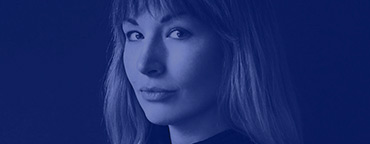
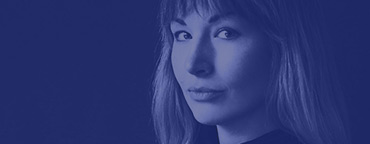
Upload bio images

diff --git a/index.html b/index.html
@@ -91,7 +91,7 @@
             <div class="container">
               <section class="">
                 <h1 class="off-center-title">Pres-<br>enters</h1>
-                <h2>Check out this<br>dope line up</h2>
+                <h2>They're all<br>amazing</h2>
                 <img class="desktop-only" src="img/section_graphics/graphic_presenters.svg" height="179" width="193" alt="Graphic Presenters">
               </section>
 
@@ -165,6 +165,55 @@
                     <div class="subtitle cushycms">Tj Usiyan Subtitle</div>
                   </div>
                 </div>
+
+                <div class="speaker-card">
+                  <div>
+                    <div class="name">Jared<br>Erondu</div>
+                    <div class="subtitle cushycms">Jared Erondu Subtitle</div>
+                  </div>
+                </div>
+
+                <div class="speaker-card">
+                  <div>
+                    <div class="name">Alexa<br>Grafera</div>
+                    <div class="subtitle cushycms">Alexa Grafera Subtitle</div>
+                  </div>
+                </div>
+
+                <div class="speaker-card">
+                  <div>
+                    <div class="name">Louie<br>Mantia</div>
+                    <div class="subtitle cushycms">Louie Mantia Subtitle</div>
+                  </div>
+                </div>
+
+                <div class="speaker-card no-image">
+                  <div>
+                    <div class="name">Jessica<br>Collier</div>
+                    <div class="subtitle cushycms">Jessica Collier Subtitle</div>
+                  </div>
+                </div>
+
+                <div class="speaker-card no-image">
+                  <div>
+                    <div class="name">Linda<br>Dong</div>
+                    <div class="subtitle cushycms">Linda Dong Subtitle</div>
+                  </div>
+                </div>
+
+                <div class="speaker-card no-image">
+                  <div>
+                    <div class="name">Lia<br>Napolitano</div>
+                    <div class="subtitle cushycms">Lia Napolitano Subtitle</div>
+                  </div>
+                </div>
+
+                <div class="speaker-card no-image">
+                  <div>
+                    <div class="name">Windy<br>Chien</div>
+                    <div class="subtitle cushycms">Windy Chien Subtitle</div>
+                  </div>
+                </div>
               </section>
             </div>
           </div>
@@ -214,7 +263,7 @@
 
               <section class="">
                 <div class="tito-container">
-                  <tito-widget event="opening-night-llc/layers-2016" ssl-check-disabled></tito-widget>
+                  <tito-widget event="opening-night-llc/layers-2016"></tito-widget>
                 </div>
                 <img class="desktop-only" src="img/section_graphics/graphic_signup.svg" height="120" width="130" alt="Sign Up Graphic">
 
@@ -313,7 +362,7 @@
                 <div class="sponsor-card">
                   <div class="name">Searle Video</div>
                   <div class="bio">
-                    <p class="cushycms">Videos for awesome events</p>
+                    <p class="cushycms">Videos for awesome events.</p>
                   </div>
                 </div>
 
@@ -343,17 +392,14 @@
         <script src='https://js.tito.io/v1' async></script>
         <script src="https://maps.googleapis.com/maps/api/js?callback=initMap"
         async defer></script>
-        <script>TitoDevelopmentMode = true</script>
-        <!-- Google Analytics: change UA-XXXXX-X to be your site's ID. -->
-        <!--
         <script>
-            (function(b,o,i,l,e,r){b.GoogleAnalyticsObject=l;b[l]||(b[l]=
-            function(){(b[l].q=b[l].q||[]).push(arguments)});b[l].l=+new Date;
-            e=o.createElement(i);r=o.getElementsByTagName(i)[0];
-            e.src='https://www.google-analytics.com/analytics.js';
-            r.parentNode.insertBefore(e,r)}(window,document,'script','ga'));
-            ga('create','UA-XXXXX-X','auto');ga('send','pageview');
+          (function(i,s,o,g,r,a,m){i['GoogleAnalyticsObject']=r;i[r]=i[r]||function(){
+          (i[r].q=i[r].q||[]).push(arguments)},i[r].l=1*new Date();a=s.createElement(o),
+          m=s.getElementsByTagName(o)[0];a.async=1;a.src=g;m.parentNode.insertBefore(a,m)
+          })(window,document,'script','//www.google-analytics.com/analytics.js','ga');
+
+          ga('create', 'UA-61756500-1', 'auto');
+          ga('send', 'pageview');
         </script>
-        -->
     </body>
 </html>

diff --git a/css/main.css b/css/main.css
@@ -649,6 +649,22 @@ footer h3 {
   background-image: url(../img/speakers/bio_usiyan_tj.jpg);
 }
 
+.speaker-card:nth-child(11) {
+  background-image: url(../img/speakers/bio_erondu_jared.jpg);
+}
+
+.speaker-card:nth-child(12) {
+  background-image: url(../img/speakers/bio_grafera_alexa.jpg);
+}
+
+.speaker-card:nth-child(13) {
+  background-image: url(../img/speakers/bio_mantia_louie.jpg);
+}
+
+.speaker-card.no-image {
+  background-image: url(../img/speakers/bio_andmore.jpg);
+}
+
 .tito-submit-wrapper button,
 .show-code-of-conduct {
   display: inline-block;
